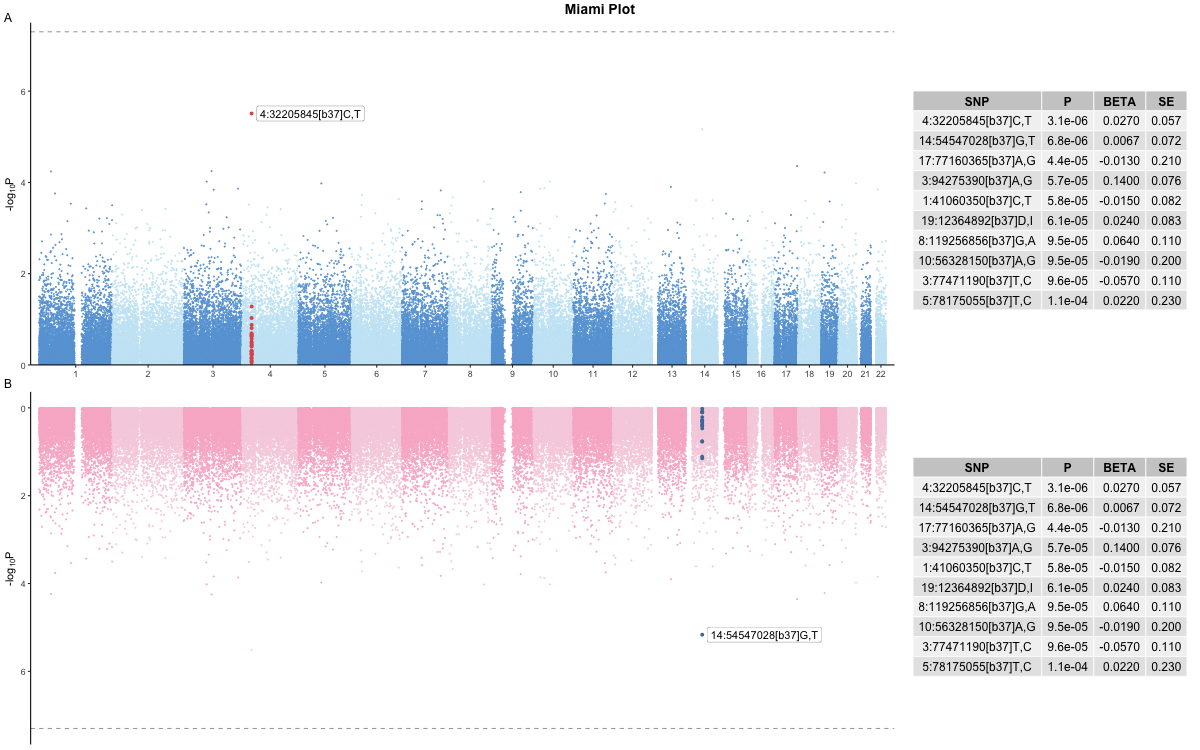
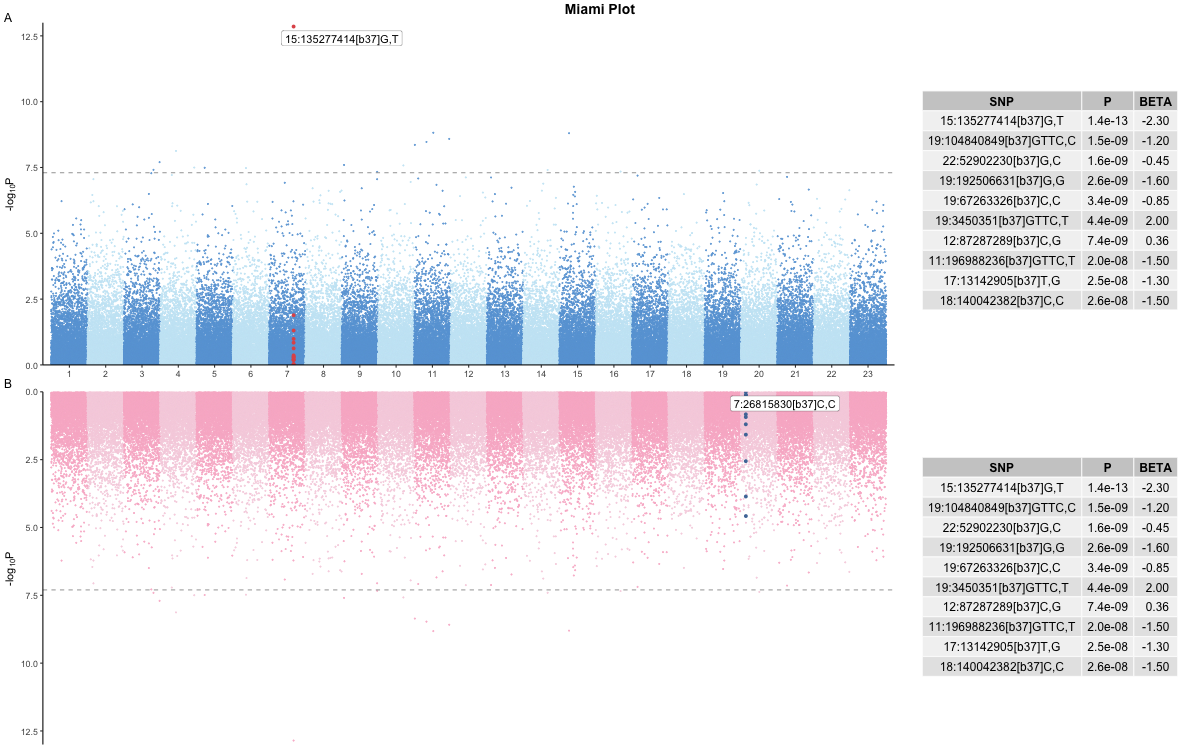
fix miami axis bug

diff --git a/docs/articles/plotting.html b/docs/articles/plotting.html
@@ -92,11 +92,11 @@ function.</p>
 <div class="sourceCode" id="cb1"><pre class="downlit sourceCode r">
 <code class="sourceCode R"><span><span class="kw"><a href="https://rdrr.io/r/base/library.html" class="external-link">library</a></span><span class="op">(</span><span class="va">genepi.utils</span><span class="op">)</span></span>
 <span></span>
-<span><span class="va">gwas</span> <span class="op">&lt;-</span> <span class="fu">data.table</span><span class="fu">::</span><span class="fu"><a href="https://Rdatatable.gitlab.io/data.table/reference/fread.html" class="external-link">fread</a></span><span class="op">(</span><span class="fu"><a href="https://rdrr.io/r/base/system.file.html" class="external-link">system.file</a></span><span class="op">(</span><span class="st">"extdata"</span>, <span class="st">"example3_gwas_sumstats.tsv"</span>, package<span class="op">=</span><span class="st">"genepi.utils"</span><span class="op">)</span><span class="op">)</span></span>
+<span><span class="va">gwas</span> <span class="op">&lt;-</span> <span class="fu"><a href="../reference/generate_random_gwas_data.html">generate_random_gwas_data</a></span><span class="op">(</span><span class="fl">100000</span><span class="op">)</span></span>
 <span></span>
-<span><span class="va">highlight_snps</span> <span class="op">=</span> <span class="va">gwas</span><span class="op">[</span><span class="va">SNP</span><span class="op">==</span><span class="st">"4:32205845[b37]C,T"</span>, <span class="op">]</span><span class="op">[[</span><span class="st">"SNP"</span><span class="op">]</span><span class="op">]</span></span>
+<span><span class="va">highlight_snps</span> <span class="op">&lt;-</span> <span class="va">gwas</span><span class="op">[[</span><span class="st">"SNP"</span><span class="op">]</span><span class="op">]</span><span class="op">[[</span><span class="fu"><a href="https://rdrr.io/r/base/which.min.html" class="external-link">which.min</a></span><span class="op">(</span><span class="va">gwas</span><span class="op">[[</span><span class="st">"P"</span><span class="op">]</span><span class="op">]</span><span class="op">)</span><span class="op">]</span><span class="op">]</span></span>
 <span></span>
-<span><span class="va">annotate_snps</span> <span class="op">=</span> <span class="va">gwas</span><span class="op">[</span><span class="va">SNP</span><span class="op">==</span><span class="st">"4:32205845[b37]C,T"</span>, <span class="op">]</span><span class="op">[[</span><span class="st">"SNP"</span><span class="op">]</span><span class="op">]</span></span>
+<span><span class="va">annotate_snps</span> <span class="op">&lt;-</span> <span class="va">gwas</span><span class="op">[[</span><span class="st">"SNP"</span><span class="op">]</span><span class="op">]</span><span class="op">[[</span><span class="fu"><a href="https://rdrr.io/r/base/which.min.html" class="external-link">which.min</a></span><span class="op">(</span><span class="va">gwas</span><span class="op">[[</span><span class="st">"P"</span><span class="op">]</span><span class="op">]</span><span class="op">)</span><span class="op">]</span><span class="op">]</span></span>
 <span></span>
 <span><span class="va">p</span> <span class="op">&lt;-</span> <span class="fu"><a href="../reference/manhattan.html">manhattan</a></span><span class="op">(</span><span class="va">gwas</span>,</span>
 <span>               highlight_snps <span class="op">=</span> <span class="va">highlight_snps</span>,</span>
@@ -111,19 +111,19 @@ function.</p>
 <h2 id="miami">Miami<a class="anchor" aria-label="anchor" href="#miami"></a>
 </h2>
 <p>Here is a simple example of using the <code><a href="../reference/miami.html">miami()</a></code> plot
-function. The use of named lists for the parameters is not strictly
-necessary, but helps readability.</p>
+function. The use of named lists (i.e. ‘top’ and ‘bottom’) for the
+parameters is not strictly necessary, but helps readability.</p>
 <div class="sourceCode" id="cb2"><pre class="downlit sourceCode r">
 <code class="sourceCode R"><span><span class="kw"><a href="https://rdrr.io/r/base/library.html" class="external-link">library</a></span><span class="op">(</span><span class="va">genepi.utils</span><span class="op">)</span></span>
 <span></span>
-<span><span class="va">gwas_top</span> <span class="op">&lt;-</span> <span class="fu">data.table</span><span class="fu">::</span><span class="fu"><a href="https://Rdatatable.gitlab.io/data.table/reference/fread.html" class="external-link">fread</a></span><span class="op">(</span><span class="fu"><a href="https://rdrr.io/r/base/system.file.html" class="external-link">system.file</a></span><span class="op">(</span><span class="st">"extdata"</span>, <span class="st">"example3_gwas_sumstats.tsv"</span>, package<span class="op">=</span><span class="st">"genepi.utils"</span><span class="op">)</span><span class="op">)</span></span>
-<span><span class="va">gwas_bottom</span> <span class="op">&lt;-</span> <span class="fu">data.table</span><span class="fu">::</span><span class="fu"><a href="https://Rdatatable.gitlab.io/data.table/reference/copy.html" class="external-link">copy</a></span><span class="op">(</span><span class="va">gwas_top</span><span class="op">)</span></span>
+<span><span class="va">gwas_top</span>    <span class="op">&lt;-</span> <span class="fu"><a href="../reference/generate_random_gwas_data.html">generate_random_gwas_data</a></span><span class="op">(</span><span class="fl">100000</span><span class="op">)</span></span>
+<span><span class="va">gwas_bottom</span> <span class="op">&lt;-</span> <span class="fu"><a href="../reference/generate_random_gwas_data.html">generate_random_gwas_data</a></span><span class="op">(</span><span class="fl">100000</span><span class="op">)</span></span>
 <span></span>
-<span><span class="va">highlight_snps_top</span>     <span class="op">&lt;-</span> <span class="va">gwas</span><span class="op">[</span><span class="va">SNP</span><span class="op">==</span><span class="st">"4:32205845[b37]C,T"</span>,  <span class="op">]</span><span class="op">[[</span><span class="st">"SNP"</span><span class="op">]</span><span class="op">]</span></span>
-<span><span class="va">highlight_snps_botttom</span> <span class="op">&lt;-</span> <span class="va">gwas</span><span class="op">[</span><span class="va">SNP</span><span class="op">==</span><span class="st">"14:54547028[b37]G,T"</span>, <span class="op">]</span><span class="op">[[</span><span class="st">"SNP"</span><span class="op">]</span><span class="op">]</span></span>
+<span><span class="va">highlight_snps_top</span>     <span class="op">&lt;-</span> <span class="va">gwas</span><span class="op">[[</span><span class="st">"SNP"</span><span class="op">]</span><span class="op">]</span><span class="op">[[</span><span class="fu"><a href="https://rdrr.io/r/base/which.min.html" class="external-link">which.min</a></span><span class="op">(</span><span class="va">gwas</span><span class="op">[[</span><span class="st">"P"</span><span class="op">]</span><span class="op">]</span><span class="op">)</span><span class="op">]</span><span class="op">]</span></span>
+<span><span class="va">highlight_snps_botttom</span> <span class="op">&lt;-</span> <span class="va">gwas</span><span class="op">[[</span><span class="st">"SNP"</span><span class="op">]</span><span class="op">]</span><span class="op">[[</span><span class="fu"><a href="https://rdrr.io/r/base/which.min.html" class="external-link">which.max</a></span><span class="op">(</span><span class="va">gwas</span><span class="op">[[</span><span class="st">"P"</span><span class="op">]</span><span class="op">]</span><span class="op">)</span><span class="op">]</span><span class="op">]</span></span>
 <span></span>
-<span><span class="va">annotate_snps_top</span>      <span class="op">&lt;-</span> <span class="va">gwas</span><span class="op">[</span><span class="va">SNP</span><span class="op">==</span><span class="st">"4:32205845[b37]C,T"</span>,  <span class="op">]</span><span class="op">[[</span><span class="st">"SNP"</span><span class="op">]</span><span class="op">]</span></span>
-<span><span class="va">annotate_snps_botttom</span>  <span class="op">&lt;-</span> <span class="va">gwas</span><span class="op">[</span><span class="va">SNP</span><span class="op">==</span><span class="st">"14:54547028[b37]G,T"</span>, <span class="op">]</span><span class="op">[[</span><span class="st">"SNP"</span><span class="op">]</span><span class="op">]</span></span>
+<span><span class="va">annotate_snps_top</span>      <span class="op">&lt;-</span> <span class="va">gwas</span><span class="op">[[</span><span class="st">"SNP"</span><span class="op">]</span><span class="op">]</span><span class="op">[[</span><span class="fu"><a href="https://rdrr.io/r/base/which.min.html" class="external-link">which.min</a></span><span class="op">(</span><span class="va">gwas</span><span class="op">[[</span><span class="st">"P"</span><span class="op">]</span><span class="op">]</span><span class="op">)</span><span class="op">]</span><span class="op">]</span></span>
+<span><span class="va">annotate_snps_botttom</span>  <span class="op">&lt;-</span> <span class="va">gwas</span><span class="op">[[</span><span class="st">"SNP"</span><span class="op">]</span><span class="op">]</span><span class="op">[[</span><span class="fu"><a href="https://rdrr.io/r/base/which.min.html" class="external-link">which.max</a></span><span class="op">(</span><span class="va">gwas</span><span class="op">[[</span><span class="st">"P"</span><span class="op">]</span><span class="op">]</span><span class="op">)</span><span class="op">]</span><span class="op">]</span></span>
 <span></span>
 <span><span class="va">colours_top</span>    <span class="op">&lt;-</span> <span class="fu"><a href="https://rdrr.io/r/base/c.html" class="external-link">c</a></span><span class="op">(</span><span class="st">"#67A3D9"</span>,<span class="st">"#C8E7F5"</span><span class="op">)</span></span>
 <span><span class="va">colours_bottom</span> <span class="op">&lt;-</span> <span class="fu"><a href="https://rdrr.io/r/base/c.html" class="external-link">c</a></span><span class="op">(</span><span class="st">"#F8B7CD"</span>,<span class="st">"#F6D2E0"</span><span class="op">)</span></span>
@@ -133,6 +133,7 @@ necessary, but helps readability.</p>
 <span>           highlight_win  <span class="op">=</span> <span class="fu"><a href="https://rdrr.io/r/base/list.html" class="external-link">list</a></span><span class="op">(</span><span class="st">"top"</span><span class="op">=</span><span class="fl">250</span>,<span class="st">"bottom"</span><span class="op">=</span><span class="fl">250</span><span class="op">)</span>,</span>
 <span>           annotate_snps  <span class="op">=</span> <span class="fu"><a href="https://rdrr.io/r/base/list.html" class="external-link">list</a></span><span class="op">(</span><span class="st">"top"</span><span class="op">=</span><span class="va">annotate_snps_top</span>, <span class="st">"bottom"</span><span class="op">=</span><span class="va">annotate_snps_botttom</span><span class="op">)</span>,</span>
 <span>           colours        <span class="op">=</span> <span class="fu"><a href="https://rdrr.io/r/base/list.html" class="external-link">list</a></span><span class="op">(</span><span class="st">"top"</span><span class="op">=</span><span class="va">colours_top</span>, <span class="st">"bottom"</span><span class="op">=</span><span class="va">colours_bottom</span><span class="op">)</span>,</span>
+<span>           downsample     <span class="op">=</span> <span class="fl">0.0</span>, </span>
 <span>           hit_table      <span class="op">=</span> <span class="cn">TRUE</span>,</span>
 <span>           title          <span class="op">=</span> <span class="st">"Miami Plot"</span>,</span>
 <span>           subtitle       <span class="op">=</span> <span class="fu"><a href="https://rdrr.io/r/base/list.html" class="external-link">list</a></span><span class="op">(</span><span class="st">"top"</span><span class="op">=</span><span class="st">"A"</span>, <span class="st">"bottom"</span><span class="op">=</span><span class="st">"B"</span><span class="op">)</span><span class="op">)</span></span></code></pre></div>

diff --git a/docs/reference/generate_random_gwas_data.html b/docs/reference/generate_random_gwas_data.html
@@ -1,0 +1,108 @@
+<!DOCTYPE html>
+<!-- Generated by pkgdown: do not edit by hand --><html lang="en"><head><meta http-equiv="Content-Type" content="text/html; charset=UTF-8"><meta charset="utf-8"><meta http-equiv="X-UA-Compatible" content="IE=edge"><meta name="viewport" content="width=device-width, initial-scale=1.0"><title>Generate random GWAS data — generate_random_gwas_data • genepi.utils</title><!-- jquery --><script src="https://cdnjs.cloudflare.com/ajax/libs/jquery/3.4.1/jquery.min.js" integrity="sha256-CSXorXvZcTkaix6Yvo6HppcZGetbYMGWSFlBw8HfCJo=" crossorigin="anonymous"></script><!-- Bootstrap --><link rel="stylesheet" href="https://cdnjs.cloudflare.com/ajax/libs/twitter-bootstrap/3.4.1/css/bootstrap.min.css" integrity="sha256-bZLfwXAP04zRMK2BjiO8iu9pf4FbLqX6zitd+tIvLhE=" crossorigin="anonymous"><script src="https://cdnjs.cloudflare.com/ajax/libs/twitter-bootstrap/3.4.1/js/bootstrap.min.js" integrity="sha256-nuL8/2cJ5NDSSwnKD8VqreErSWHtnEP9E7AySL+1ev4=" crossorigin="anonymous"></script><!-- bootstrap-toc --><link rel="stylesheet" href="../bootstrap-toc.css"><script src="../bootstrap-toc.js"></script><!-- Font Awesome icons --><link rel="stylesheet" href="https://cdnjs.cloudflare.com/ajax/libs/font-awesome/5.12.1/css/all.min.css" integrity="sha256-mmgLkCYLUQbXn0B1SRqzHar6dCnv9oZFPEC1g1cwlkk=" crossorigin="anonymous"><link rel="stylesheet" href="https://cdnjs.cloudflare.com/ajax/libs/font-awesome/5.12.1/css/v4-shims.min.css" integrity="sha256-wZjR52fzng1pJHwx4aV2AO3yyTOXrcDW7jBpJtTwVxw=" crossorigin="anonymous"><!-- clipboard.js --><script src="https://cdnjs.cloudflare.com/ajax/libs/clipboard.js/2.0.6/clipboard.min.js" integrity="sha256-inc5kl9MA1hkeYUt+EC3BhlIgyp/2jDIyBLS6k3UxPI=" crossorigin="anonymous"></script><!-- headroom.js --><script src="https://cdnjs.cloudflare.com/ajax/libs/headroom/0.11.0/headroom.min.js" integrity="sha256-AsUX4SJE1+yuDu5+mAVzJbuYNPHj/WroHuZ8Ir/CkE0=" crossorigin="anonymous"></script><script src="https://cdnjs.cloudflare.com/ajax/libs/headroom/0.11.0/jQuery.headroom.min.js" integrity="sha256-ZX/yNShbjqsohH1k95liqY9Gd8uOiE1S4vZc+9KQ1K4=" crossorigin="anonymous"></script><!-- pkgdown --><link href="../pkgdown.css" rel="stylesheet"><script src="../pkgdown.js"></script><meta property="og:title" content="Generate random GWAS data — generate_random_gwas_data"><meta property="og:description" content="Generates rows of synthetic GWAS summary stats data. Useful for developing plotting and other
+methods. No attempt is made to make this data at all realistic."><!-- mathjax --><script src="https://cdnjs.cloudflare.com/ajax/libs/mathjax/2.7.5/MathJax.js" integrity="sha256-nvJJv9wWKEm88qvoQl9ekL2J+k/RWIsaSScxxlsrv8k=" crossorigin="anonymous"></script><script src="https://cdnjs.cloudflare.com/ajax/libs/mathjax/2.7.5/config/TeX-AMS-MML_HTMLorMML.js" integrity="sha256-84DKXVJXs0/F8OTMzX4UR909+jtl4G7SPypPavF+GfA=" crossorigin="anonymous"></script><!--[if lt IE 9]>
+<script src="https://oss.maxcdn.com/html5shiv/3.7.3/html5shiv.min.js"></script>
+<script src="https://oss.maxcdn.com/respond/1.4.2/respond.min.js"></script>
+<![endif]--></head><body data-spy="scroll" data-target="#toc">
+    
+
+    <div class="container template-reference-topic">
+      <header><div class="navbar navbar-default navbar-fixed-top" role="navigation">
+  <div class="container">
+    <div class="navbar-header">
+      <button type="button" class="navbar-toggle collapsed" data-toggle="collapse" data-target="#navbar" aria-expanded="false">
+        <span class="sr-only">Toggle navigation</span>
+        <span class="icon-bar"></span>
+        <span class="icon-bar"></span>
+        <span class="icon-bar"></span>
+      </button>
+      <span class="navbar-brand">
+        <a class="navbar-link" href="../index.html">genepi.utils</a>
+        <span class="version label label-default" data-toggle="tooltip" data-placement="bottom" title="">0.0.0.9000</span>
+      </span>
+    </div>
+
+    <div id="navbar" class="navbar-collapse collapse">
+      <ul class="nav navbar-nav"><li>
+  <a href="../reference/index.html">Reference</a>
+</li>
+<li class="dropdown">
+  <a href="#" class="dropdown-toggle" data-toggle="dropdown" role="button" data-bs-toggle="dropdown" aria-expanded="false">
+    Articles
+     
+    <span class="caret"></span>
+  </a>
+  <ul class="dropdown-menu" role="menu"><li>
+      <a href="../articles/chrpos_to_rsid.html">CHR:POS to RSID mapping</a>
+    </li>
+    <li>
+      <a href="../articles/plotting.html">Plotting</a>
+    </li>
+    <li>
+      <a href="../articles/standardise_gwas.html">Standardise GWAS</a>
+    </li>
+  </ul></li>
+      </ul><ul class="nav navbar-nav navbar-right"></ul></div><!--/.nav-collapse -->
+  </div><!--/.container -->
+</div><!--/.navbar -->
+
+      
+
+      </header><div class="row">
+  <div class="col-md-9 contents">
+    <div class="page-header">
+    <h1>Generate random GWAS data</h1>
+    
+    <div class="hidden name"><code>generate_random_gwas_data.Rd</code></div>
+    </div>
+
+    <div class="ref-description">
+    <p>Generates rows of synthetic GWAS summary stats data. Useful for developing plotting and other
+methods. No attempt is made to make this data at all realistic.</p>
+    </div>
+
+    <div id="ref-usage">
+    <div class="sourceCode"><pre class="sourceCode r"><code><span><span class="fu">generate_random_gwas_data</span><span class="op">(</span><span class="va">n</span>, seed <span class="op">=</span> <span class="fl">2023</span><span class="op">)</span></span></code></pre></div>
+    </div>
+
+    <div id="arguments">
+    <h2>Arguments</h2>
+    <dl><dt>n</dt>
+<dd><p>number of fake variants to generate</p></dd>
+
+
+<dt>seed</dt>
+<dd><p>seed, for reproducibility</p></dd>
+
+</dl></div>
+    <div id="value">
+    <h2>Value</h2>
+    
+
+<p>a data.table with columns SNP, CHR, BP, OA, EA, EAF, BETA, P, EUR_EAF</p>
+    </div>
+
+  </div>
+  <div class="col-md-3 hidden-xs hidden-sm" id="pkgdown-sidebar">
+    <nav id="toc" data-toggle="toc" class="sticky-top"><h2 data-toc-skip>Contents</h2>
+    </nav></div>
+</div>
+
+
+      <footer><div class="copyright">
+  <p></p><p>Developed by Nicholas Sunderland, Andrew Elmore.</p>
+</div>
+
+<div class="pkgdown">
+  <p></p><p>Site built with <a href="https://pkgdown.r-lib.org/" class="external-link">pkgdown</a> 2.0.7.</p>
+</div>
+
+      </footer></div>
+
+  
+
+
+  
+
+  </body></html>
+

diff --git a/docs/reference/miami.html b/docs/reference/miami.html
@@ -76,7 +76,7 @@ plot. Some parameters are not duplicated however - see the example defaults belo
 <span>  highlight_shape <span class="op">=</span> <span class="fu"><a href="https://rdrr.io/r/base/list.html" class="external-link">list</a></span><span class="op">(</span>top <span class="op">=</span> <span class="fl">16</span>, bottom <span class="op">=</span> <span class="fl">16</span><span class="op">)</span>,</span>
 <span>  sig_line_1 <span class="op">=</span> <span class="fu"><a href="https://rdrr.io/r/base/list.html" class="external-link">list</a></span><span class="op">(</span>top <span class="op">=</span> <span class="fl">5e-08</span>, bottom <span class="op">=</span> <span class="fl">5e-08</span><span class="op">)</span>,</span>
 <span>  sig_line_2 <span class="op">=</span> <span class="fu"><a href="https://rdrr.io/r/base/list.html" class="external-link">list</a></span><span class="op">(</span>top <span class="op">=</span> <span class="cn">NULL</span>, bottom <span class="op">=</span> <span class="cn">NULL</span><span class="op">)</span>,</span>
-<span>  y_limits <span class="op">=</span> <span class="fu"><a href="https://rdrr.io/r/base/list.html" class="external-link">list</a></span><span class="op">(</span>top <span class="op">=</span> <span class="fu"><a href="https://rdrr.io/r/base/c.html" class="external-link">c</a></span><span class="op">(</span><span class="fl">0</span>, <span class="fl">7.5</span><span class="op">)</span>, bottom <span class="op">=</span> <span class="fu"><a href="https://rdrr.io/r/base/c.html" class="external-link">c</a></span><span class="op">(</span><span class="fl">0</span>, <span class="fl">7.5</span><span class="op">)</span><span class="op">)</span>,</span>
+<span>  y_limits <span class="op">=</span> <span class="fu"><a href="https://rdrr.io/r/base/list.html" class="external-link">list</a></span><span class="op">(</span>top <span class="op">=</span> <span class="fu"><a href="https://rdrr.io/r/base/c.html" class="external-link">c</a></span><span class="op">(</span><span class="cn">NULL</span>, <span class="cn">NULL</span><span class="op">)</span>, bottom <span class="op">=</span> <span class="fu"><a href="https://rdrr.io/r/base/c.html" class="external-link">c</a></span><span class="op">(</span><span class="cn">NULL</span>, <span class="cn">NULL</span><span class="op">)</span><span class="op">)</span>,</span>
 <span>  title <span class="op">=</span> <span class="cn">NULL</span>,</span>
 <span>  subtitle <span class="op">=</span> <span class="fu"><a href="https://rdrr.io/r/base/list.html" class="external-link">list</a></span><span class="op">(</span>top <span class="op">=</span> <span class="cn">NULL</span>, bottom <span class="op">=</span> <span class="cn">NULL</span><span class="op">)</span>,</span>
 <span>  hit_table <span class="op">=</span> <span class="cn">FALSE</span>,</span>

diff --git a/docs/reference/manhattan.html b/docs/reference/manhattan.html
@@ -71,7 +71,7 @@
 <span>  highlight_alpha <span class="op">=</span> <span class="fl">1</span>,</span>
 <span>  sig_line_1 <span class="op">=</span> <span class="fl">5e-08</span>,</span>
 <span>  sig_line_2 <span class="op">=</span> <span class="cn">NULL</span>,</span>
-<span>  y_limits <span class="op">=</span> <span class="fu"><a href="https://rdrr.io/r/base/c.html" class="external-link">c</a></span><span class="op">(</span><span class="fl">0</span>, <span class="fl">7.5</span><span class="op">)</span>,</span>
+<span>  y_limits <span class="op">=</span> <span class="fu"><a href="https://rdrr.io/r/base/c.html" class="external-link">c</a></span><span class="op">(</span><span class="cn">NULL</span>, <span class="cn">NULL</span><span class="op">)</span>,</span>
 <span>  title <span class="op">=</span> <span class="cn">NULL</span>,</span>
 <span>  subtitle <span class="op">=</span> <span class="cn">NULL</span>,</span>
 <span>  hit_table <span class="op">=</span> <span class="cn">FALSE</span>,</span>

diff --git a/docs/reference/index.html b/docs/reference/index.html
@@ -117,6 +117,10 @@
           <p><code><a href="miami.html">miami()</a></code> </p>
         </td>
         <td><p>Miami plot</p></td>
+      </tr><tr><td>
+          <p><code><a href="generate_random_gwas_data.html">generate_random_gwas_data()</a></code> </p>
+        </td>
+        <td><p>Generate random GWAS data</p></td>
       </tr></tbody></table></div>
 
   <div class="col-md-3 hidden-xs hidden-sm" id="pkgdown-sidebar">
